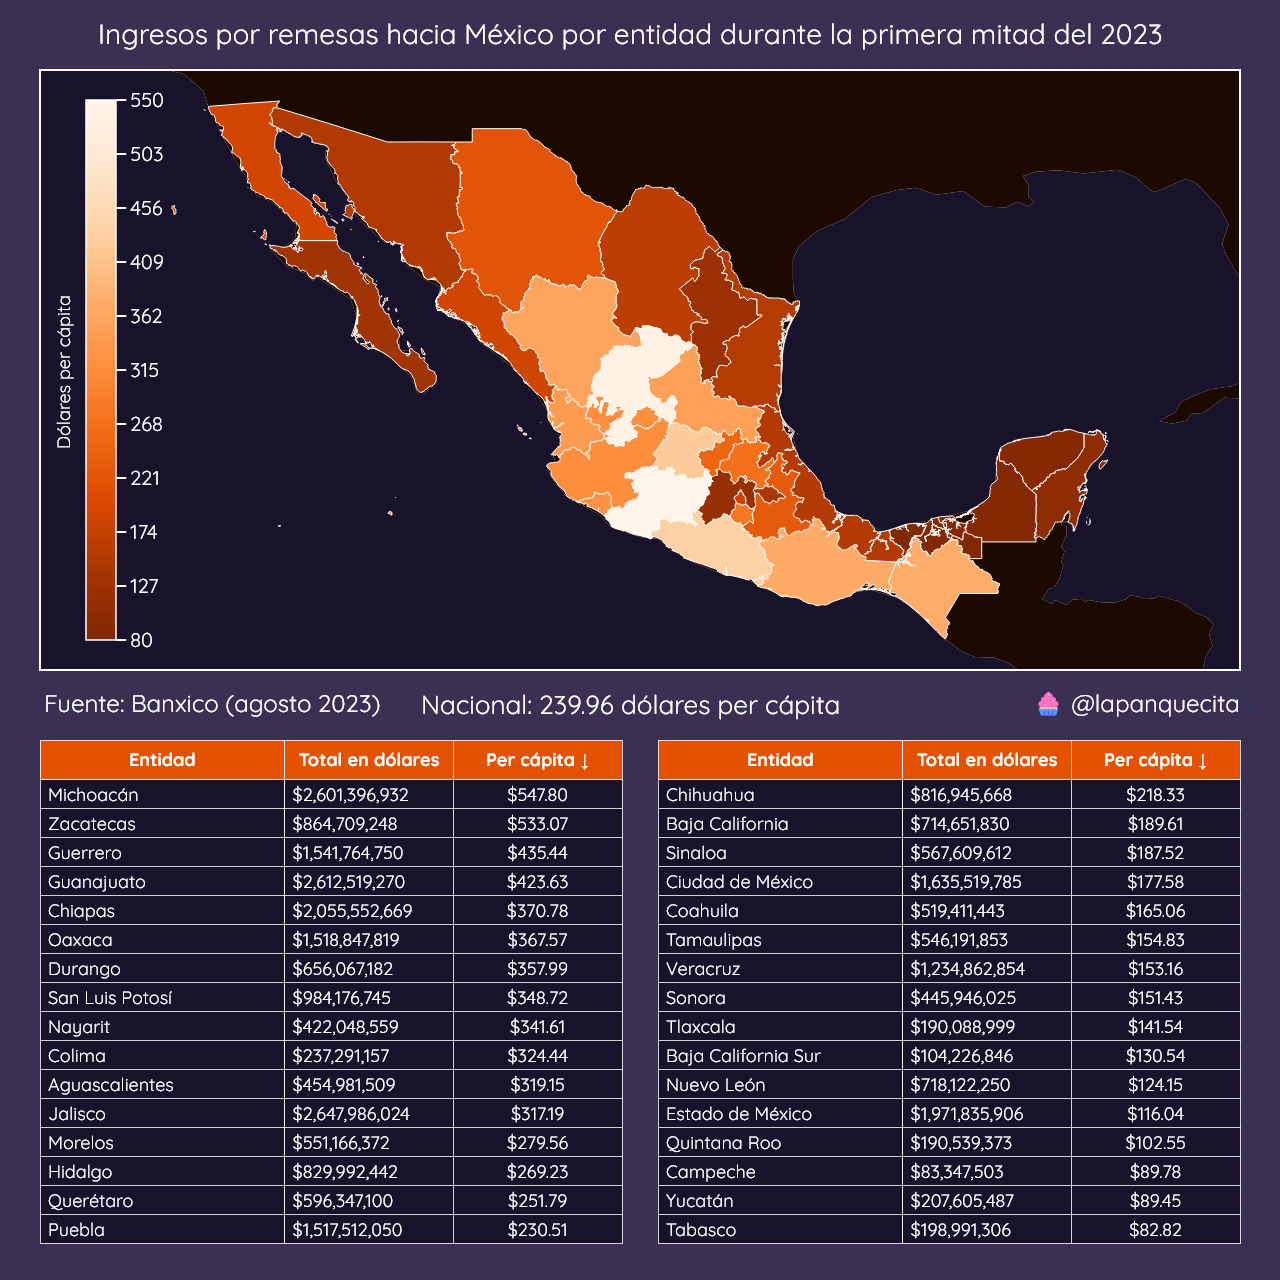
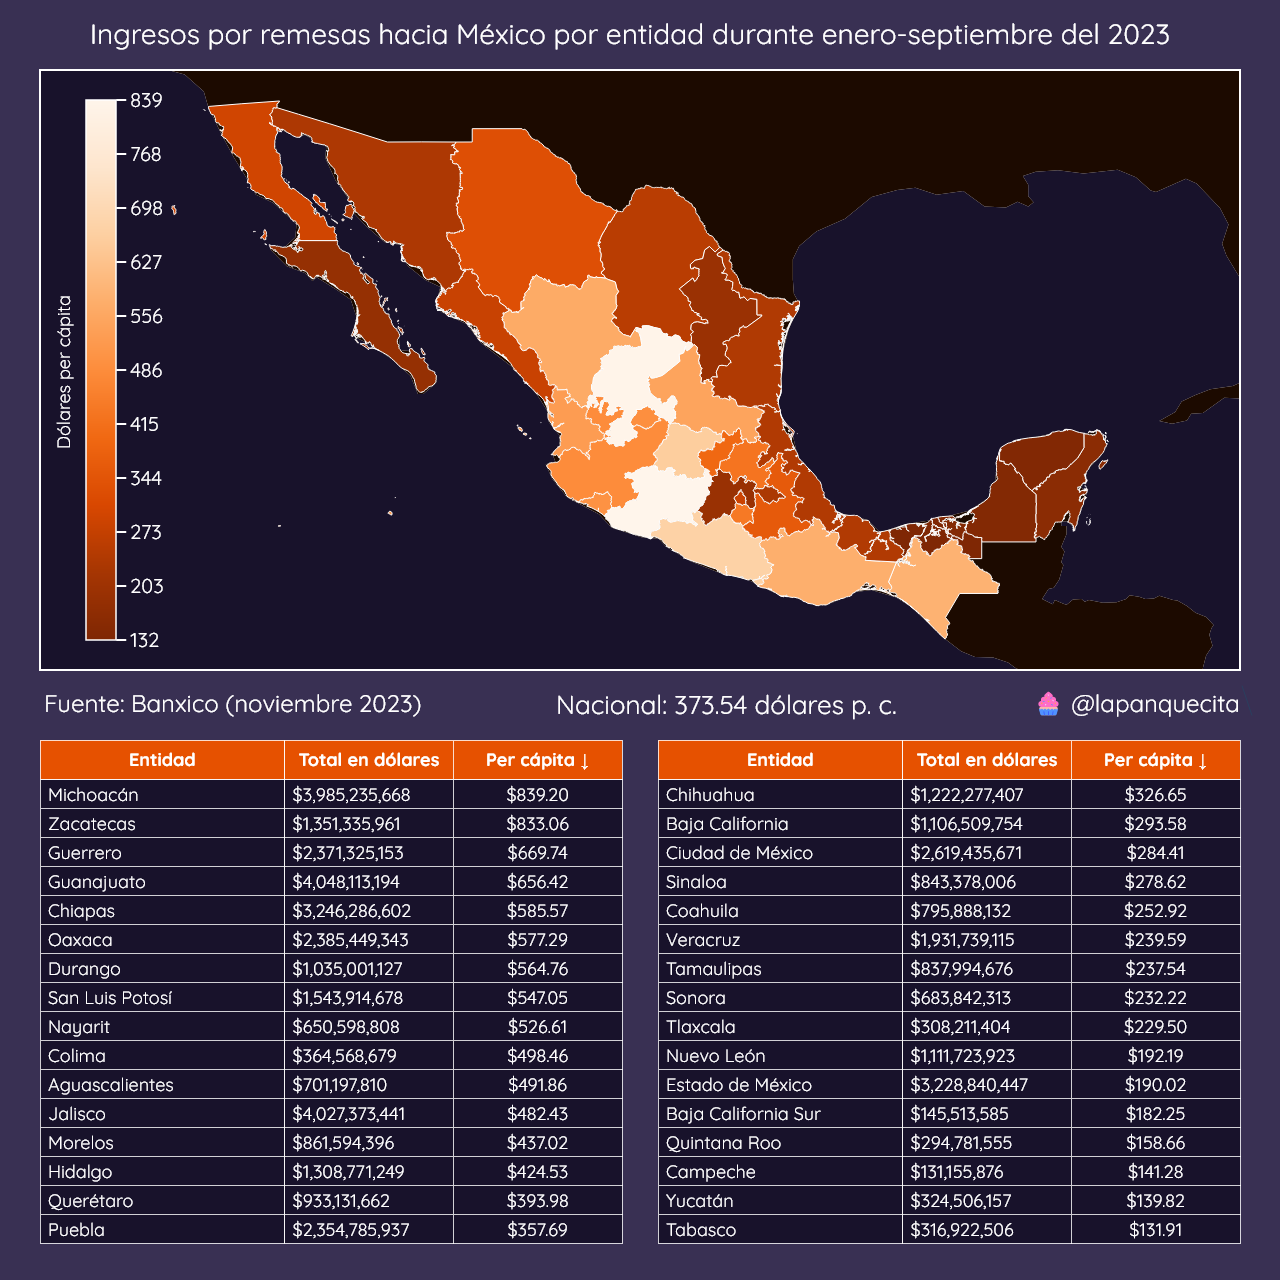
Add files via upload

diff --git a/remesas_entidad.py b/remesas_entidad.py
@@ -1,6 +1,7 @@
 """
 
-Fuente: https://www.banxico.org.mx/SieInternet/consultarDirectorioInternetAction.do?sector=1&accion=consultarCuadro&idCuadro=CE100&locale=es
+Fuente:
+https://www.banxico.org.mx/SieInternet/consultarDirectorioInternetAction.do?sector=1&accion=consultarCuadro&idCuadro=CE100&locale=es
 
 """
 
@@ -45,7 +46,7 @@ def plot_mapa():
     pop = pop["poblacion"]
 
     # Cargamos el dataset de remesas por entidad.
-    df = pd.read_csv("./remesas_entidad.csv", index_col="Entidad")
+    df = pd.read_csv("./data/remesas_entidad.csv", index_col="Entidad")
 
     # Seleccionamos las columnas del año que nos interesa.
     cols = [col for col in df.columns if "2023" in col]
@@ -57,7 +58,7 @@ def plot_mapa():
     df["total"] = df.sum(axis=1) * 1000000
 
     # Calculamos las remesas per cápita para toda la polación.
-    subtitulo = f"Nacional: {df['total'].sum() / pop.sum():,.2f} dólares per cápita"
+    subtitulo = f"Nacional: {df['total'].sum() / pop.sum():,.2f} dólares p. c."
 
     # Asignamos la población a cada entidad.
     df["pop"] = df.index.map(pop)
@@ -73,8 +74,8 @@ def plot_mapa():
     valores = list()
 
     # Estos valores serán usados para definir la escala en el mapa.
-    min_val = 80
-    max_val = 550
+    min_val = df["capita"].min()
+    max_val = df["capita"].max()
 
     marcas = np.linspace(min_val, max_val, 11)
     etiquetas = list()
@@ -158,11 +159,11 @@ def plot_mapa():
                 y=1.01,
                 xanchor="center",
                 yanchor="top",
-                text="Ingresos por remesas hacia México por entidad durante la primera mitad del 2023",
+                text="Ingresos por remesas hacia México por entidad durante enero-septiembre del 2023",
                 font_size=28
             ),
             dict(
-                x=0.5,
+                x=0.58,
                 y=-0.04,
                 xanchor="center",
                 yanchor="top",
@@ -183,7 +184,7 @@ def plot_mapa():
                 y=-0.04,
                 xanchor="left",
                 yanchor="top",
-                text="Fuente: Banxico (agosto 2023)",
+                text="Fuente: Banxico (noviembre 2023)",
                 font_size=24
             ),
             dict(

diff --git a/remesas_mensuales.py b/remesas_mensuales.py
@@ -1,7 +1,9 @@
 """
 Este script muestra la tendencia y totales de remesas hacia México.
 
+Fuente:
 https://www.banxico.org.mx/SieInternet/consultarDirectorioInternetAction.do?accion=consultarCuadro&idCuadro=CE81&locale=es
+
 """
 
 import pandas as pd
